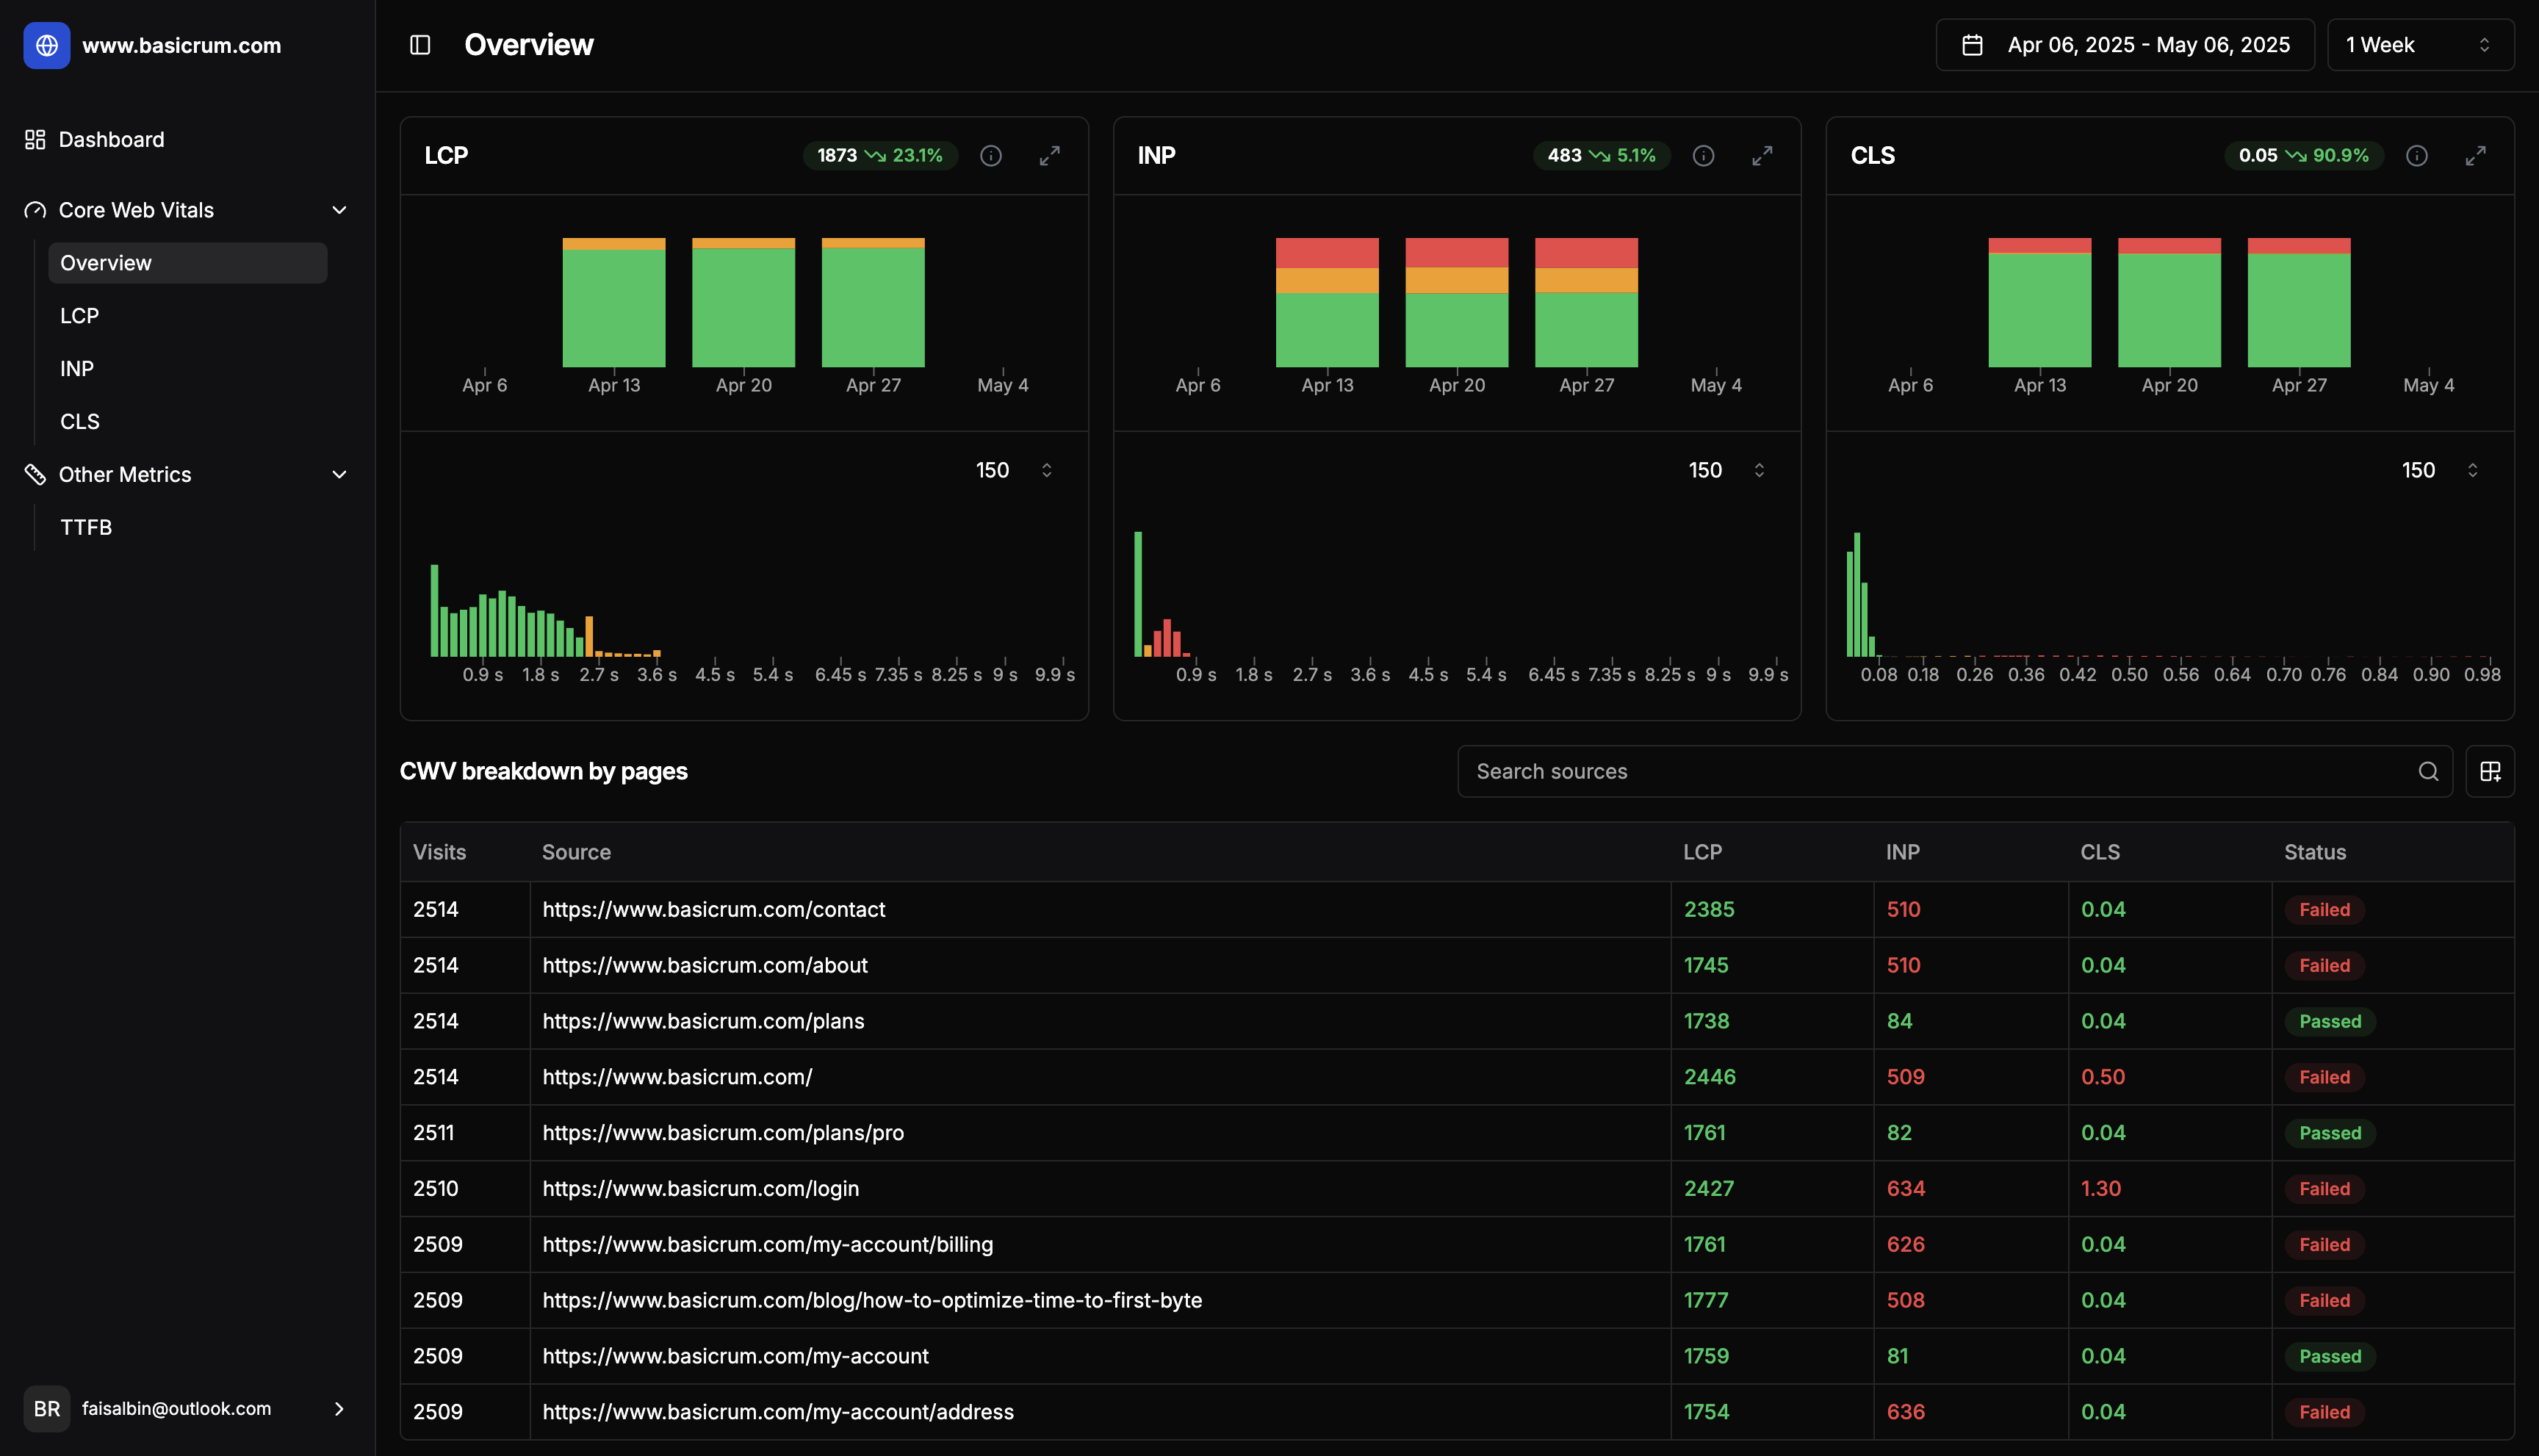
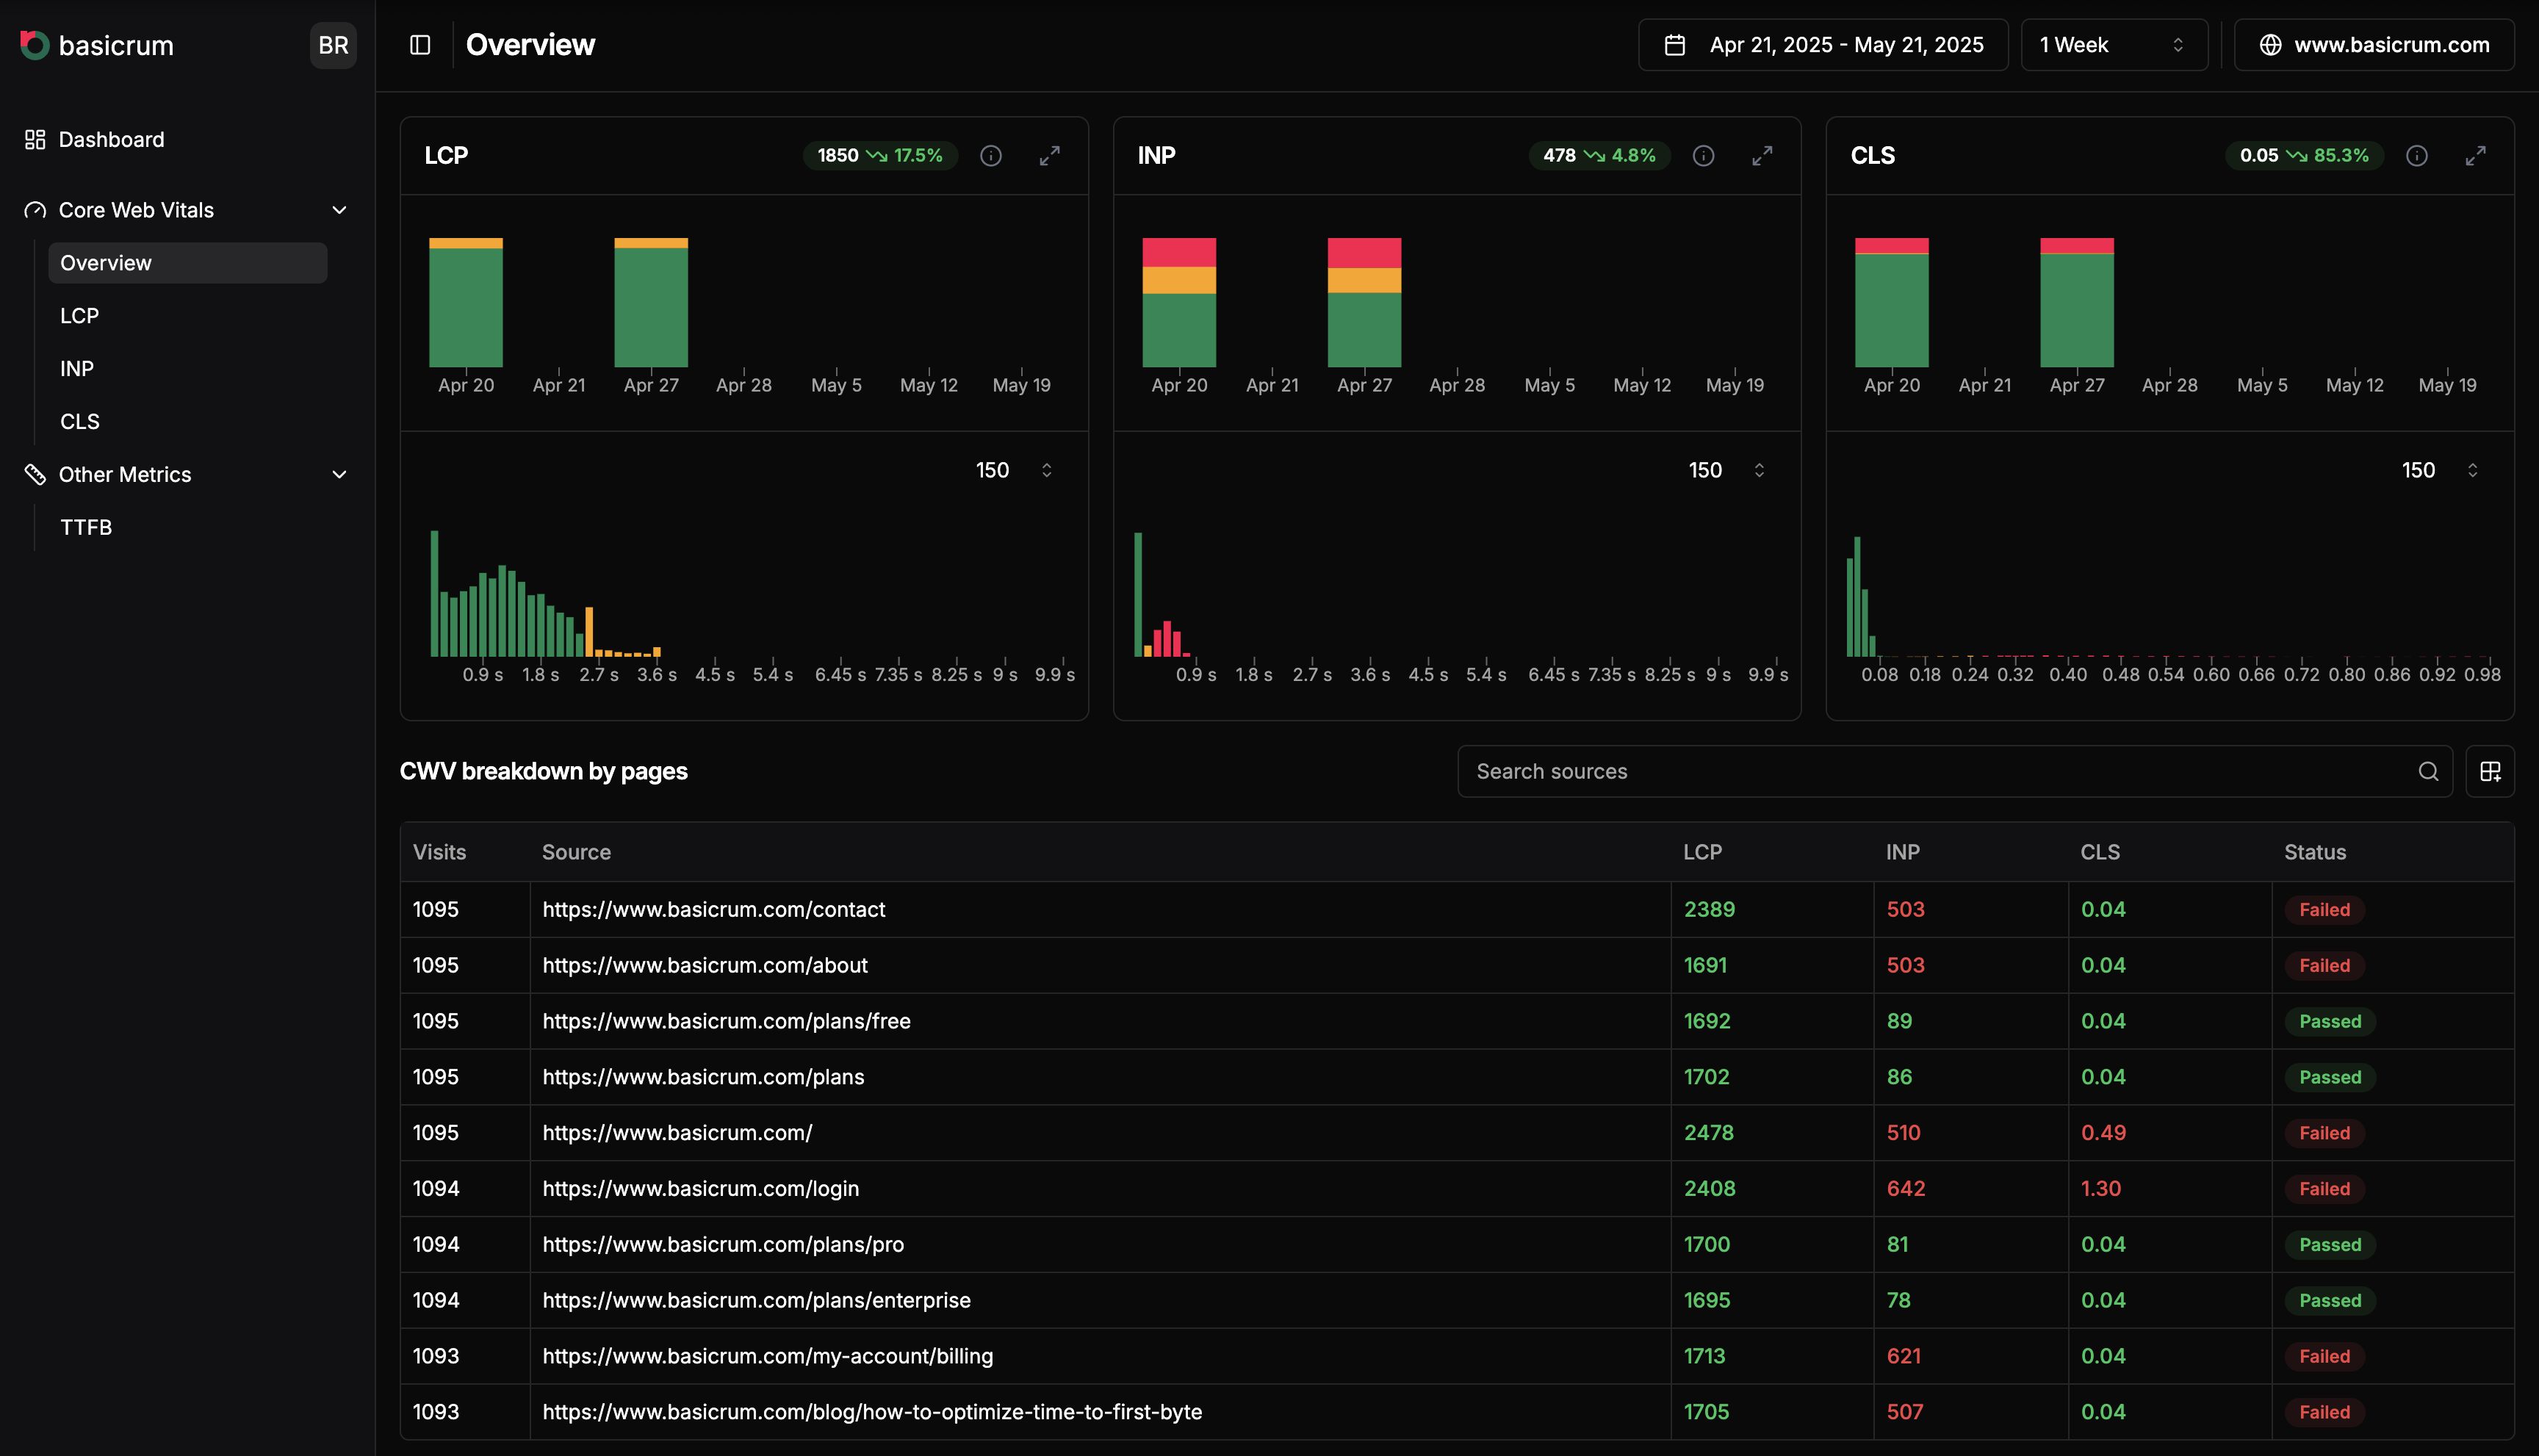
new ss, features moved to home

diff --git a/src/components/content-5.tsx b/src/components/content-5.tsx
@@ -1,4 +1,61 @@
-import { Cpu, Lock, Sparkles, Zap } from "lucide-react";
+import {
+	Cpu,
+	DatabaseZap,
+	EarthLock,
+	Feather,
+	Lock,
+	PackageOpen,
+	Sparkles,
+	Zap,
+} from "lucide-react";
+
+const FEATURES = [
+	{
+		icon: Zap,
+		title: "Fast",
+		description: "Basicrum is performance oriented from get go.",
+	},
+	{
+		icon: Cpu,
+		title: "Powerful",
+		description:
+			"Shipped with a powerful dashboard and a set of widgets to help users monitor their users effectively.",
+	},
+	{
+		icon: Lock,
+		title: "Privacy",
+		description: "Hosted in EU and GDPR compliant",
+	},
+	{
+		icon: Sparkles,
+		title: "AI Enhanced",
+		description:
+			"We use RAG to help users facilitate LLMs to extract more fine grained information",
+	},
+	{
+		icon: PackageOpen,
+		title: "Open Source",
+		description:
+			"Basicrum is open source and free to use. You can self host it or use our hosted version.",
+	},
+	{
+		icon: Feather,
+		title: "Lightweight",
+		description:
+			"Basicrum is lightweight and easy to install. It runs on any server with Node.js.",
+	},
+	{
+		icon: EarthLock,
+		title: "Hosted in EU",
+		description: "Basicrum is hosted in EU and complies with GDPR regulations.",
+	},
+	{
+		icon: DatabaseZap,
+		title: "Powered by Clickhouse",
+		description:
+			"Basicrum is powered by Clickhouse, a fast open-source OLAP database management system.",
+	},
+];
 
 export default function FeaturesSection() {
 	return (
@@ -15,54 +72,22 @@ export default function FeaturesSection() {
 					</p>
 				</div>
 				<img
-					className="rounded-(--radius) grayscale"
-					src="/app-home.png"
+					className="rounded-(--radius)"
+					src="/lcp.png"
 					alt="about-basicrum"
-					height=""
-					width=""
 					loading="lazy"
 				/>
 
 				<div className="relative mx-auto grid grid-cols-2 gap-x-3 gap-y-6 sm:gap-8 lg:grid-cols-4">
-					<div className="space-y-3">
-						<div className="flex items-center gap-2">
-							<Zap className="size-4" />
-							<h3 className="text-sm font-medium">Fast</h3>
+					{FEATURES.map(({ icon: Icon, title, description }) => (
+						<div key={title} className="space-y-2">
+							<div className="flex items-center gap-2">
+								<Icon className="size-4" />
+								<h3 className="text-sm font-medium">{title}</h3>
+							</div>
+							<p className="text-muted-foreground text-sm">{description}</p>
 						</div>
-						<p className="text-muted-foreground text-sm">
-							Basicrum is performance oriented from get go.
-						</p>
-					</div>
-					<div className="space-y-2">
-						<div className="flex items-center gap-2">
-							<Cpu className="size-4" />
-							<h3 className="text-sm font-medium">Powerful</h3>
-						</div>
-						<p className="text-muted-foreground text-sm">
-							Shipped with a powerful dashboard and a set of widgets to help
-							users monitor their users effectively.
-						</p>
-					</div>
-					<div className="space-y-2">
-						<div className="flex items-center gap-2">
-							<Lock className="size-4" />
-							<h3 className="text-sm font-medium">Privacy</h3>
-						</div>
-						<p className="text-muted-foreground text-sm">
-							Hosted in EU and GDPR compliant
-						</p>
-					</div>
-					<div className="space-y-2">
-						<div className="flex items-center gap-2">
-							<Sparkles className="size-4" />
-
-							<h3 className="text-sm font-medium">AI Powered</h3>
-						</div>
-						<p className="text-muted-foreground text-sm">
-							We use RAG to help users facilitate LLMs to extract more fine
-							grained information
-						</p>
-					</div>
+					))}
 				</div>
 			</div>
 		</section>

diff --git a/src/components/footer.tsx b/src/components/footer.tsx
@@ -2,25 +2,25 @@ import Image from "next/image";
 import Link from "next/link";
 
 const links = [
-	{
-		title: "Features",
-		href: "#",
-	},
+	// {
+	// 	title: "Features",
+	// 	href: "#",
+	// },
 	{
 		title: "Blog",
-		href: "#",
+		href: "/blog",
 	},
 	{
 		title: "Pricing",
-		href: "#",
+		href: "/pricing",
 	},
 	{
-		title: "Help",
-		href: "#",
+		title: "Contact",
+		href: "/contact",
 	},
 	{
 		title: "About",
-		href: "#",
+		href: "/about",
 	},
 ];
 

diff --git a/src/app/page.tsx b/src/app/page.tsx
@@ -1,13 +1,14 @@
-import FeaturesSection from "@/components/features-9";
+import FeaturesSection from "@/components/content-5";
+import { FeaturesSectionGraphed } from "@/components/features-9";
 
 import HeroSection from "@/components/hero-section";
 
 export default function Home() {
-  return (
-			<>
-				<HeroSection />
-				<FeaturesSection />
-
-			</>
-		);
+	return (
+		<>
+			<HeroSection />
+			<FeaturesSectionGraphed />
+			<FeaturesSection />
+		</>
+	);
 }

diff --git a/src/components/hero-section.tsx b/src/components/hero-section.tsx
@@ -243,7 +243,7 @@ export default function HeroSection() {
 						</AnimatedGroup>
 					</div>
 				</section>
-				<section className="bg-background pb-16 pt-16 md:pb-32">
+				{/* <section className="bg-background pb-16 pt-16 md:pb-32">
 					<div className="group relative m-auto max-w-5xl px-6">
 						<div className="absolute inset-0 z-10 flex scale-95 items-center justify-center opacity-0 duration-500 group-hover:scale-100 group-hover:opacity-100">
 							<Link
@@ -332,7 +332,7 @@ export default function HeroSection() {
 							</div>
 						</div>
 					</div>
-				</section>
+				</section> */}
 			</main>
 		</>
 	);

diff --git a/src/components/hero5-header.tsx b/src/components/hero5-header.tsx
@@ -9,7 +9,8 @@ import Image from "next/image";
 import { usePathname } from "next/navigation";
 
 const menuItems = [
-	{ name: "Features", href: "/features" },
+	{ name: "Home", href: "/" },
+	// { name: "Features", href: "/features" },
 	{ name: "Blog", href: "/blog" },
 	{ name: "Pricing", href: "/pricing" },
 	{ name: "About", href: "/about" },

diff --git a/src/components/features-9.tsx b/src/components/features-9.tsx
@@ -10,7 +10,7 @@ import {
 	ChartTooltipContent,
 } from "@/components/ui/chart";
 
-export default function FeaturesSection() {
+export function FeaturesSectionGraphed() {
 	return (
 		<section className="px-4 py-16 md:py-32">
 			<div className="mx-auto grid max-w-5xl border md:grid-cols-2">